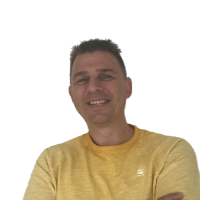
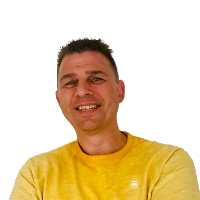
Update profile picture Geert

diff --git a/index.html b/index.html
@@ -111,18 +111,22 @@
       <div class="container">
         <div class="row">
           <div class="col-lg-6 about-img">
-            <img src="assets/img/spectrum.png" alt="">
+            <a href="https://medium.com/@geertwlclaes/when-which-design-thinking-lean-design-sprint-agile-a4614fa778b9"><img src="assets/img/spectrum.png" alt="Innovation SPectrum"></a>
           </div>
 
           <div class="col-lg-6 content">
-            <h2>Guide across the entire innovation spectrum!</h2>
-            <h3>We look at Design Thinking, Lean Startup, Design Sprint & Agile as a bunch of tools and techniques in our toolbox. We help innovators to apply whatever techniques are relevant depending on the project maturity.</h3>
+            <h2>Confusion galore!</h2>
+            <h3>Innovation methodologies, frameworks, and techniques can be confusing. We look at things like Design Thinking, Lean Startup, Design Sprint & Agile as a bunch of tools and techniques in our toolbox.</h3>
+            <h3>We help innovators apply whatever techniques are relevant depending on the product maturity.</h3>
 
-            <ul>
+            <a href="https://medium.com/@geertwlclaes/when-which-design-thinking-lean-design-sprint-agile-a4614fa778b9">Article on "When, which … Design Thinking, Lean, Design Sprint, Agile?"</a>
+            
+
+           <!--  <ul>
               <li><i class="ion-android-checkmark-circle"></i> Facilitate workshops & hands-on coaching.</li>
               <li><i class="ion-android-checkmark-circle"></i> Provide qualified UX and IT staff to build your prototype or MVP.</li>
               <li><i class="ion-android-checkmark-circle"></i> Innovation recipe and governance tool to guide innovators and track progress for investors.</li>
-            </ul>
+            </ul> -->
 
           </div>
         </div>
@@ -152,7 +156,7 @@
             <div class="box wow fadeInRight" data-wow-delay="0.4s">
               <div class="icon"><i class="fa fa-address-card"></i></div>
               <h4 class="title"><a href="">Remote Workers</a></h4>
-              <p class="description">We help you put together a team to build an affordable prototype and MVP fast using qualified remote experts. Remote staff will be on-site at kick-off and at regulat intervals to be truly part of the team.</p>
+              <p class="description">We help you put together a team to build an affordable prototype and MVP fast using qualified remote experts. Remote staff will be on-site at kick-off and at regular intervals to be truly part of the team.</p>
             </div>
           </div>
 
@@ -160,7 +164,7 @@
             <div class="box wow fadeInUp" data-wow-delay="0.6s">
               <div class="icon"><i class="fa fa-book"></i></div>
               <h4 class="title"><a href="">Innovation Guide</a></h4>
-              <p class="description">Our innovation recipe helps innovators from problem identification to value delivery. Guiding via questions allowing entrepreneurs to priorotozs and focus.  Investors will get an overview of their innovation portfolio.</p>
+              <p class="description">Our innovation recipe helps innovators from problem identification to value delivery. Our specific questions will drive entrepreneurs to prioritize and focus.  Investors will get an overview of their innovation portfolio.</p>
             </div>
           </div>
 
@@ -410,6 +414,7 @@
       <div class="container">
         <div class="section-header">
           <h2>The Team</h2>
+          <p>We are a team trained in Design Thinking, Lean Startup, Design Sprint and Agile with 3+ years of hand-on experience training and coaching innovators across Europe.</p>
         </div>
         <div class="row">
           <div class="col-lg-6 col-md-12 wow fadeInLeft" data-wow-delay="0.4s"">
